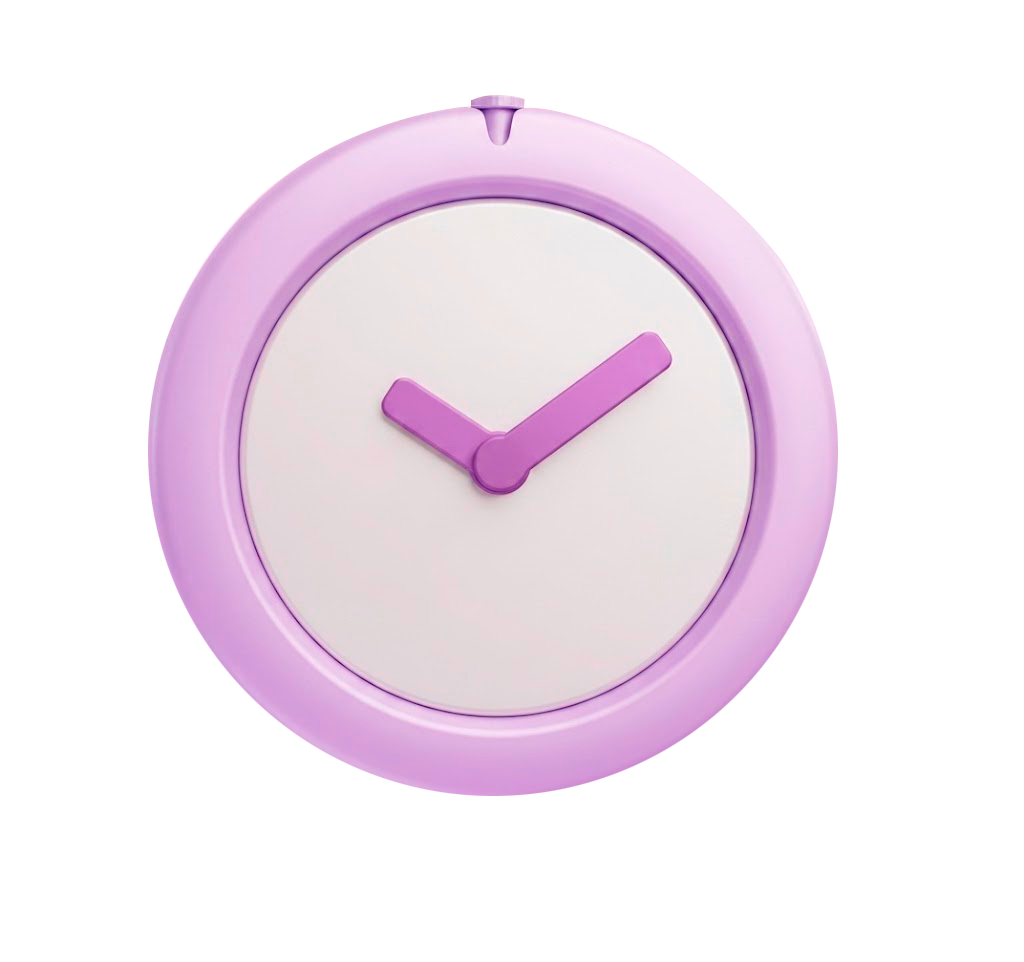
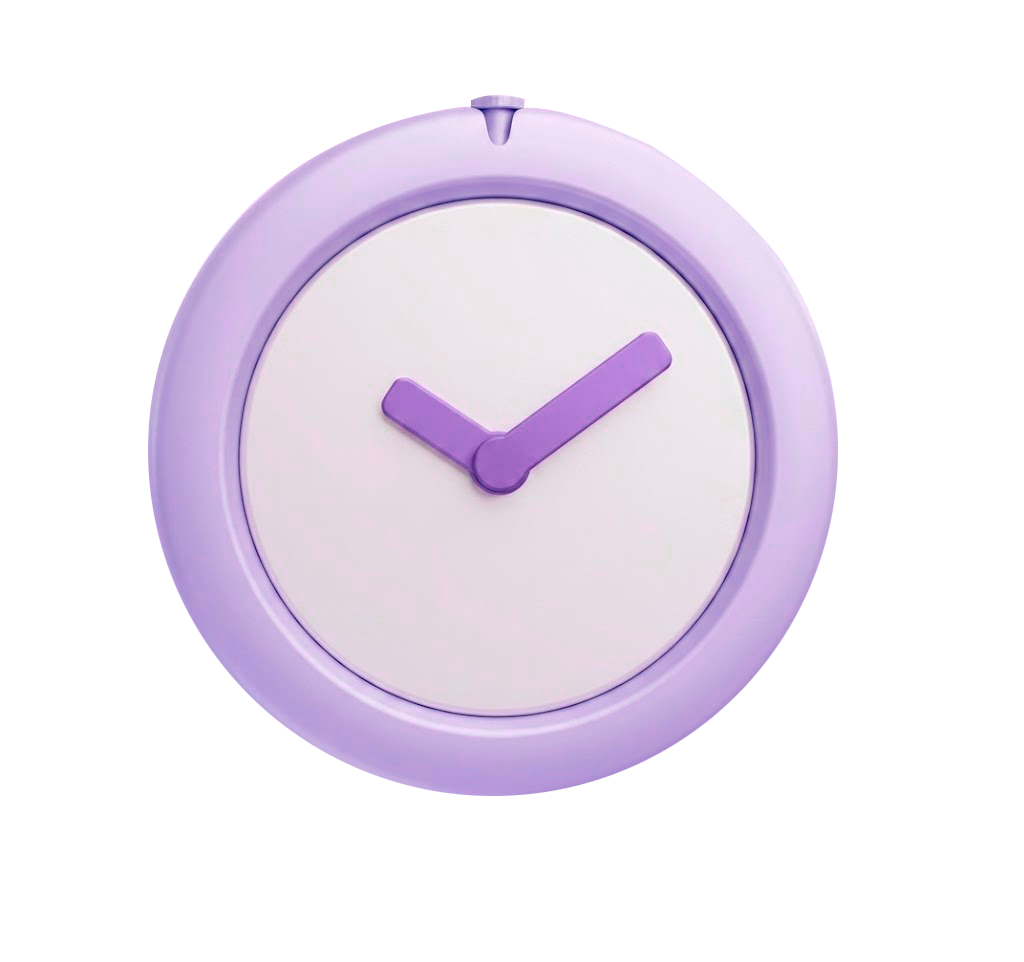
Fix the bug.

Changed region(s): [[0.125, 0.0936, 0.8125, 0.842], [0.375, 0.343, 0.6562, 0.5301]]

diff --git a/index.html b/index.html
@@ -426,7 +426,7 @@
             <p class="cta-banner__subtitle">Start planning smarter today.</p>
         </div>
 
-        <img class="cta-banner__graphic cta-banner__graphic--clock" src="assets/images/clock_image.png" width="192" height="180" alt="Clock image" aria-hidden="true">
+        <img class="cta-banner__graphic cta-banner__graphic--clock" src="assets/images/clock_image-cropped.png" width="192" height="180" alt="Clock image" aria-hidden="true">
         <img class="cta-banner__graphic cta-banner__graphic--stars" src="assets/images/stars.svg" width="123" height="123" alt="Stars image" aria-hidden="true">
 
         <a href="#" class="btn btn--google-play cta-banner__btn" aria-label="Download Systematico on Google Play">

diff --git a/css/index.css b/css/index.css
@@ -1111,6 +1111,7 @@
     left: clamp(0px, calc(-148.837px + 46.512vw), 200px);
     z-index: 1;    /* Keeps it behind the button/text */
     width: 192px;
+    filter: drop-shadow(-7px 14px 6px rgba(193, 166, 217, 0.7));
 }
 
 /* Position the Stars */
